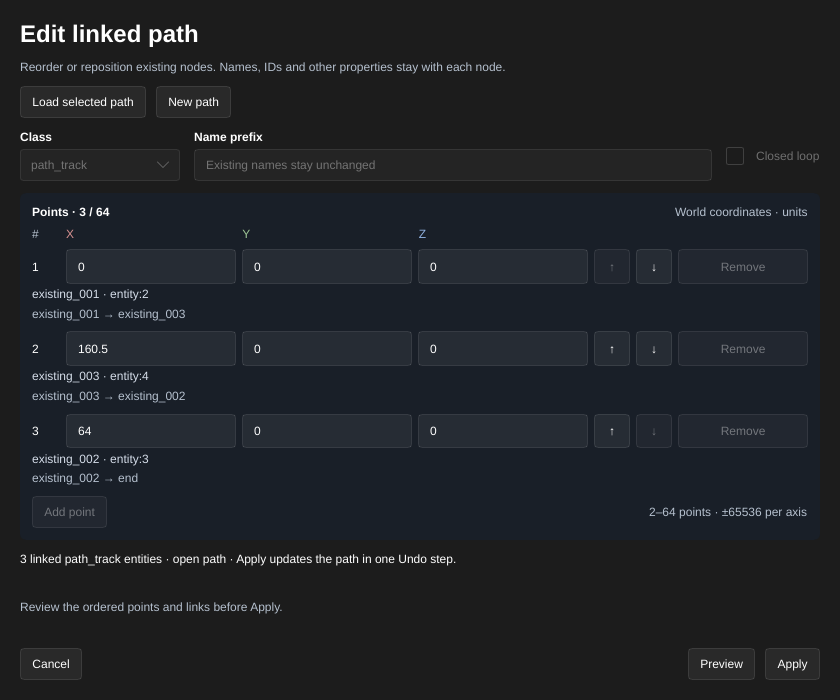
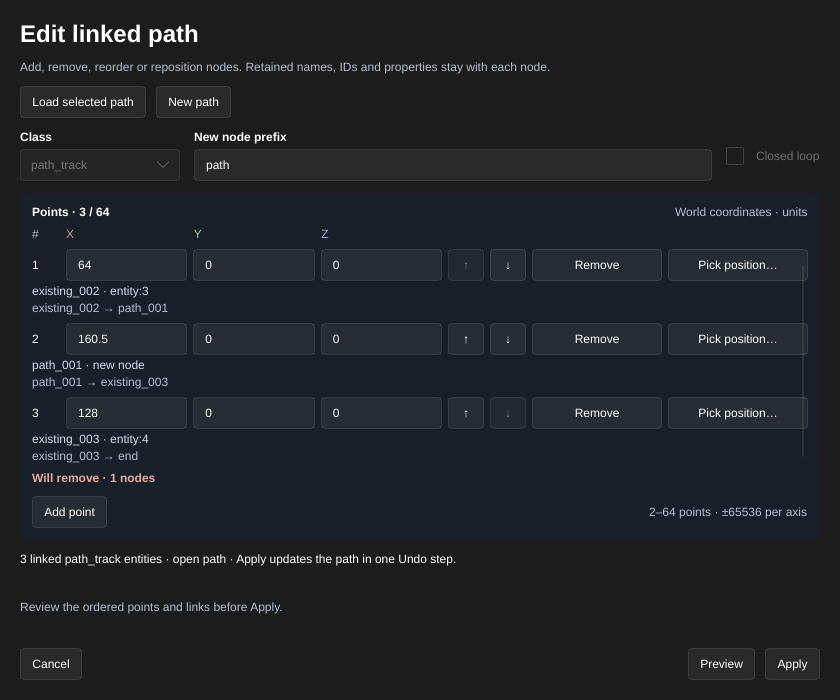
Refresh surface-picked linked path walkthrough and images

diff --git a/docs/path-authoring.md b/docs/path-authoring.md
@@ -68,9 +68,9 @@ defaults apply only to inserted nodes.
    same nodes and their links. Applying an unchanged path adds no history step.
 6. Use **New path** to return the table to creation mode.
 
-![Reordering existing named nodes without replacing their identities](images/linked-path-existing.png)
-
 ## Pick a row's position from a surface
+
+Move one path point to an exact visible surface.
 
 1. Create or load the path, then click **Preview**. Use **Review preview** to
    take ownership of another actor's draft. Preview any changed fields first.
@@ -80,10 +80,13 @@ defaults apply only to inserted nodes.
    exact hit point replaces only that row's preview coordinates, and the dialog
    returns. A miss or an invalid point keeps the gesture armed and preserves
    the previous coordinates.
-4. To stop an armed gesture, press **Escape** or click **Cancel position pick**.
-   The preview coordinates stay unchanged. Review a successful pick, then click
-   **Apply** to commit the complete path in one Undo step. **Cancel** discards
-   the whole unapplied path draft.
+4. Press **Escape** to stop an armed gesture in the viewport. After a miss
+   returns the dialog, **Cancel position pick** also stops the gesture. The
+   preview coordinates stay unchanged.
+5. Review a successful pick, then click **Apply** to commit the complete path
+   in one Undo step. **Cancel** discards the whole unapplied path draft.
+
+![Owned path rows with surface-picking controls and retained node identities](images/linked-path-existing.png)
 
 Picking uses the visible surface point without grid rounding, a height offset
 or an orientation change. Path nodes themselves are excluded from target

diff --git a/README.md b/README.md
@@ -206,7 +206,7 @@ Setup details, conventions and the full tool list are in [AI agents and MCP](doc
 | Linked paths |
 | --- |
 | ![Reviewing an ordered linked path](docs/images/linked-path.png) |
-| Create path chains or insert, remove, reorder and move nodes while retaining surviving identities. |
+| Place path points on surfaces, then insert, remove, reorder or move nodes while preserving links. |
 
 [Linked paths →](docs/path-authoring.md)
 
